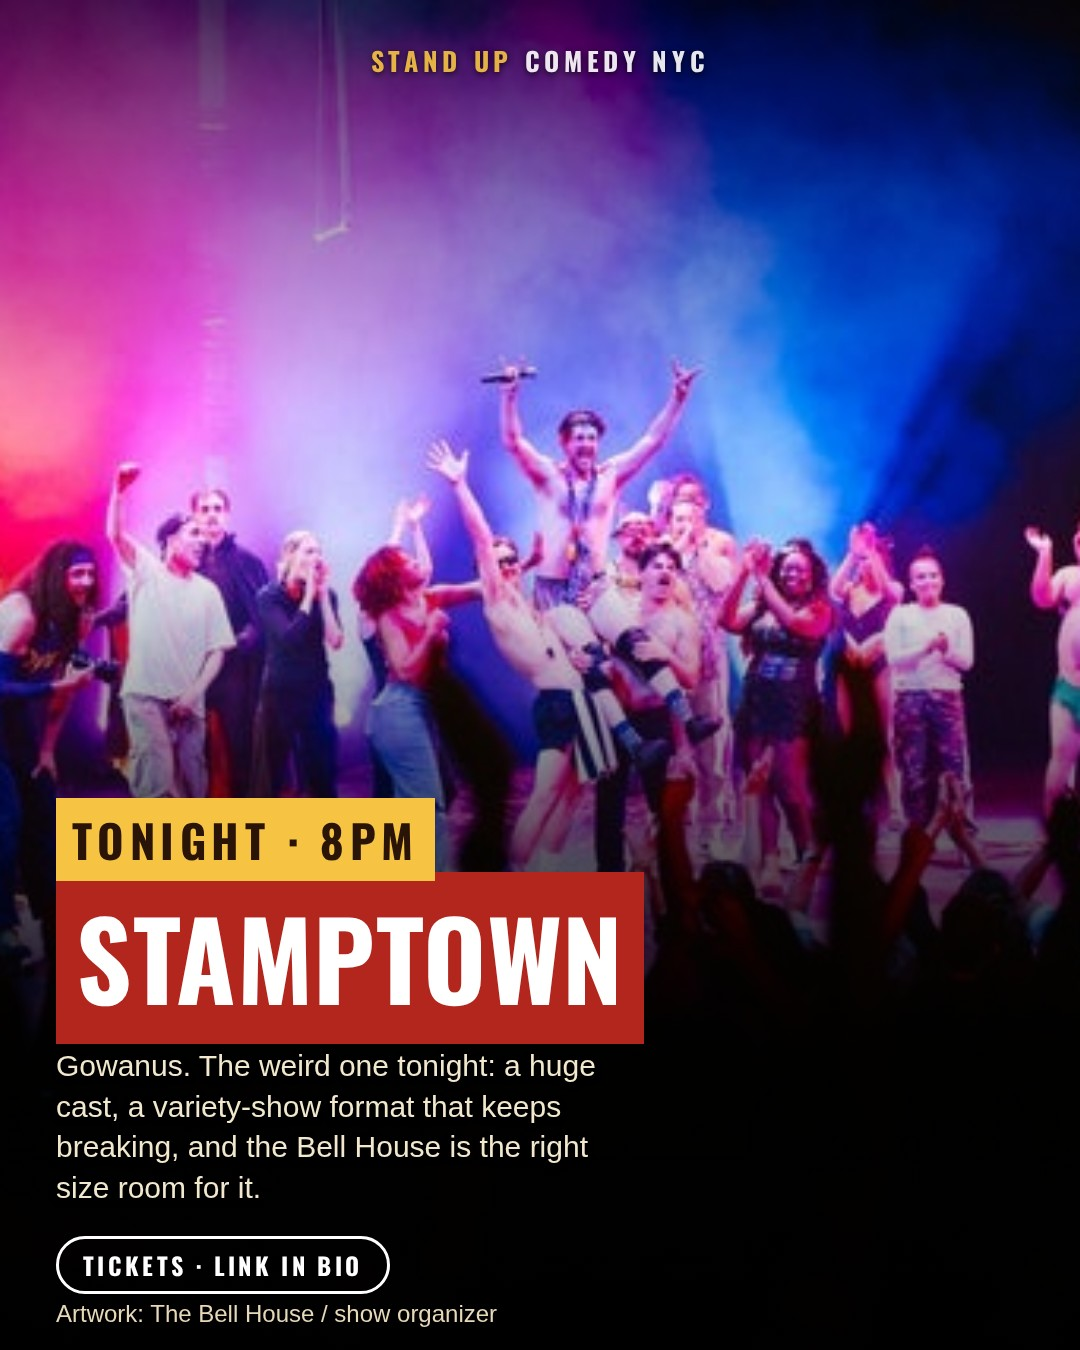
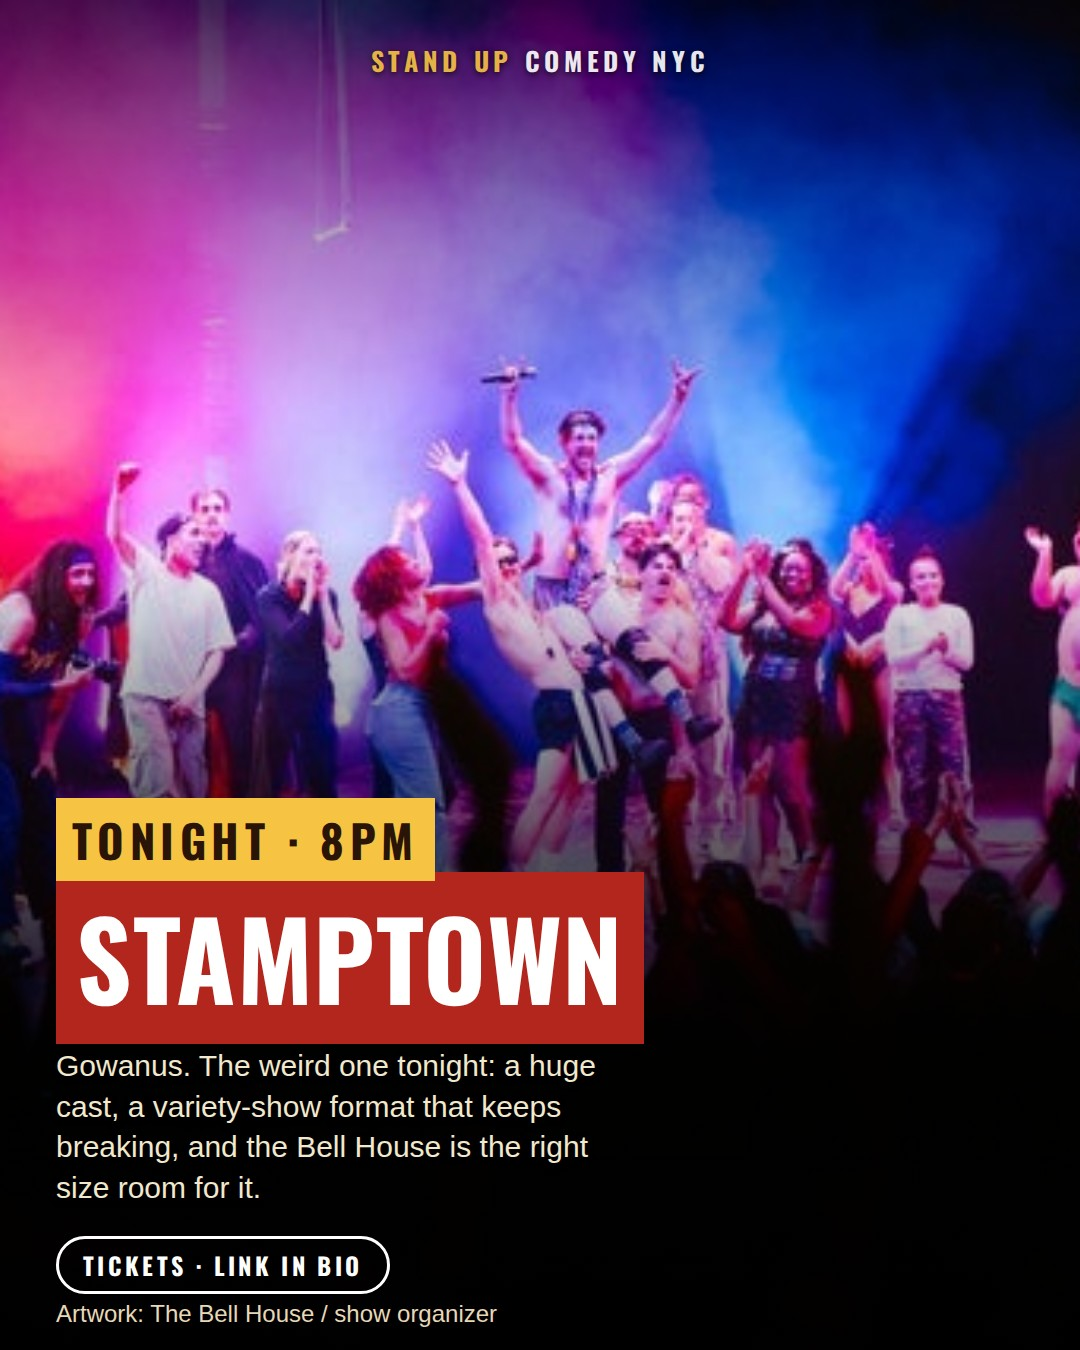
IG cards: photo-first is the only design; card URLs carry a content hash so Instagram never reuses a stale image

diff --git a/scripts/ig-card.js b/scripts/ig-card.js
@@ -5,7 +5,7 @@
 //   node scripts/ig-card.js --pick <id> [--pick <id> ...]  cards for specific picks
 //   --out=DIR (default web/assets/ig)  --json (print a manifest instead of prose)
 //   node scripts/ig-card.js --story [--date=YYYY-MM-DD]     one 1080x1920 story frame with tonight's itinerary
-//   --photo  photo-first template: official artwork full-bleed with a highlighted headline (credit in the caption)
+//   --paper  force the text-only paper template (default is photo-first; paper is only the no-artwork fallback)
 // Cards are text-only by default. Artwork is included only when the pick's poster
 // record has reuse: "granted" in POSTER-SOURCES.json.
 // Needs a Chromium headless shell: set IG_BROWSER to the binary, or it is found under
@@ -30,6 +30,8 @@ for (const a of process.argv.slice(2)) {
   args[m[1]] = m[2] ?? true; args._last = m[1];
 }
 const outDir = path.resolve(root, args.out || 'web/assets/ig');
+// Photo-first is the only design (Nick, September 15, 2026). The paper card exists solely as the fallback for picks without artwork; --paper forces it for a test.
+if (!args.paper) args.photo = true;
 
 function findBrowser() {
   if (process.env.IG_BROWSER && fs.existsSync(process.env.IG_BROWSER)) return process.env.IG_BROWSER;

diff --git a/scripts/ig-post.js b/scripts/ig-post.js
@@ -33,7 +33,9 @@ const nyDate = (d = new Date()) => new Intl.DateTimeFormat('en-CA', { timeZone: 
 const longDate = (day) => new Intl.DateTimeFormat('en-US', { timeZone: 'America/New_York', weekday: 'long', month: 'long', day: 'numeric' }).format(new Date(day + 'T12:00:00-04:00'));
 const picks = JSON.parse(fs.readFileSync(path.join(root, 'web', 'data', 'picks.json'), 'utf8'));
 const log = fs.existsSync(logFile) ? JSON.parse(fs.readFileSync(logFile, 'utf8')) : [];
-const cardUrl = (id) => `${SITE}/assets/ig/${id}.jpg`;
+// The URL carries a content hash so Instagram and the CDN never reuse a cached copy of an older render.
+const crypto = require('crypto');
+const cardUrl = (id) => { const f = path.join(root, 'web', 'assets', 'ig', id + '.jpg'); const v = fs.existsSync(f) ? crypto.createHash('md5').update(fs.readFileSync(f)).digest('hex').slice(0, 10) : Date.now(); return `${SITE}/assets/ig/${id}.jpg?v=${v}`; };
 const cardExists = (id) => fs.existsSync(path.join(root, 'web', 'assets', 'ig', id + '.jpg'));
 
 async function api(pathname, params, method = 'POST') {

diff --git a/README.md b/README.md
@@ -107,7 +107,7 @@ curl -s https://standupcomedynyc.com/editorial.css | md5sum; md5sum web/editoria
 
 ## Instagram cards
 
-`npm run ig-card -- --tonight` renders a Tonight cover and one card per pick into `web/assets/ig/`, so a push makes them public at standupcomedynyc.com/assets/ig/<id>.jpg, which the Instagram API needs. Cards are text-only in the site's style. Artwork is included only when its record in POSTER-SOURCES.json has `reuse: "granted"`. Paid listings are labeled on the card. Sold-out picks are left out of the Tonight set (they stay on the site with the tag) unless the pick carries a `walkup_note`. Rendering needs a Chromium headless shell: set `IG_BROWSER` or let the script find one under `PLAYWRIGHT_BROWSERS_PATH` or `~/.cache/ms-playwright`. Rotation deletes cards for expired picks and past covers.
+`npm run ig-card -- --tonight` renders a Tonight cover and one card per pick into `web/assets/ig/`, so a push makes them public at standupcomedynyc.com/assets/ig/<id>.jpg, which the Instagram API needs. The design is photo-first: the show's artwork full-bleed with the headline in red blocks and the credit on the card; a pick without artwork falls back to the text-only paper card (`--paper` forces it). Card URLs sent to the API carry a content hash (`?v=`) so Instagram never reuses a cached older render of the same filename. Paid listings are labeled on the card. Sold-out picks are left out of the Tonight set (they stay on the site with the tag) unless the pick carries a `walkup_note`. Rendering needs a Chromium headless shell: set `IG_BROWSER` or let the script find one under `PLAYWRIGHT_BROWSERS_PATH` or `~/.cache/ms-playwright`. Rotation deletes cards for expired picks and past covers.
 
 Stories: `npm run ig-card -- --story` renders one 1080x1920 frame, `web/assets/ig/story-<date>.jpg`, with tonight's itinerary over the night's cover art, and `npm run ig-post -- --tonight --story` posts it (the API cannot attach a link sticker, so the frame prints standupcomedynyc.com/links). Mazzie's story job runs at 20:30 UTC, after the 19:00 UTC carousel. Sold-out picks are left out of both.
 
